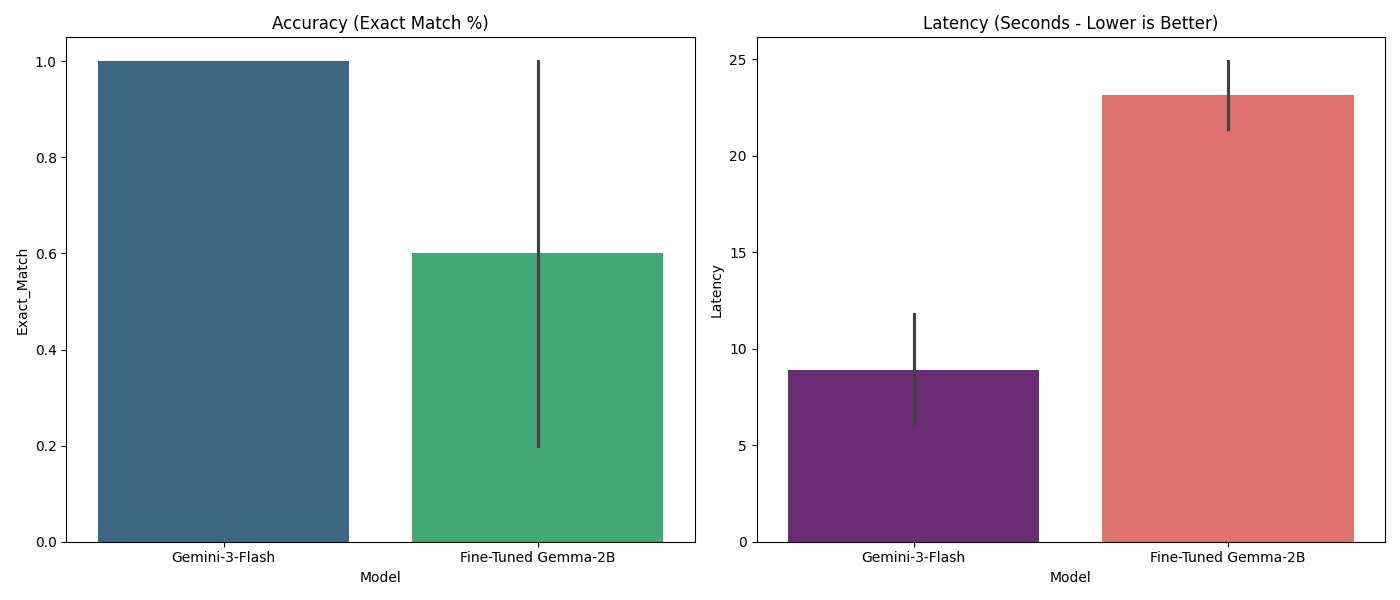
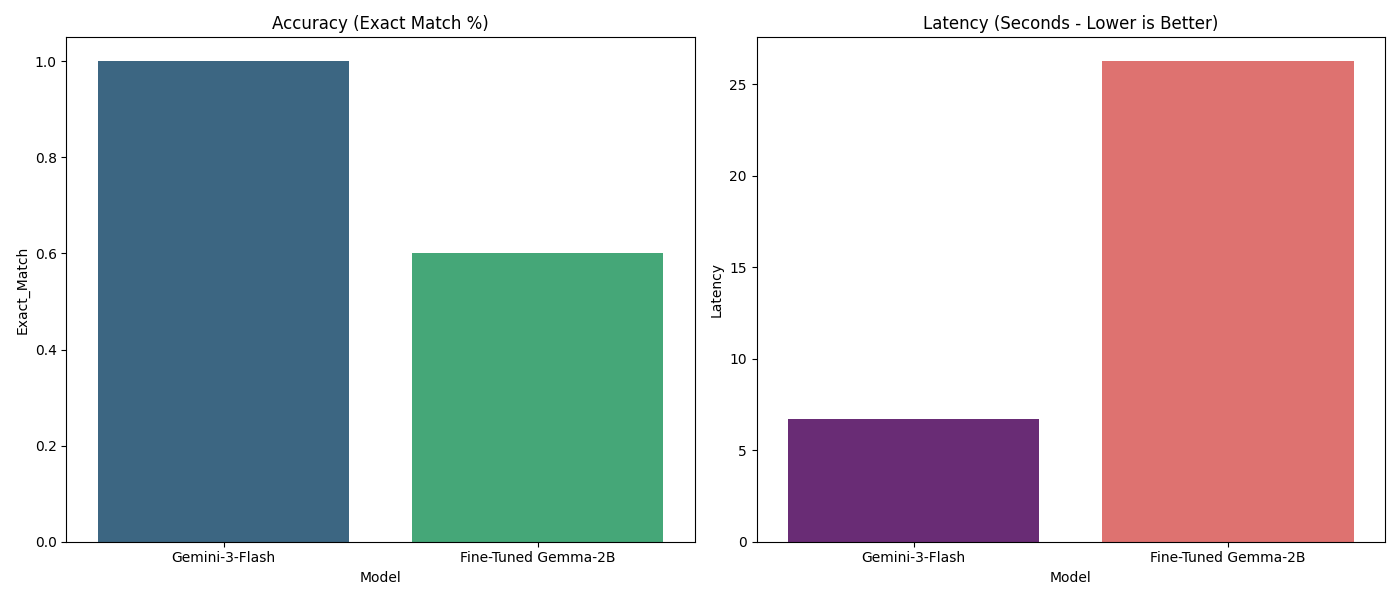
Refactored code

diff --git a/agent_evaluation_comparison_gemini3_vs_gemma2.py b/agent_evaluation_comparison_gemini3_vs_gemma2.py
@@ -189,6 +189,7 @@ async def run_evaluation():
         start = time.time()
         gemini_json = await get_gemini_response(eval_data['input'])
         gemini_lat = time.time() - start
+        logger.info(f"Gemini-3-Flash response: {gemini_json}")
         gem_type, gem_exact = calculate_metrics(gemini_json, eval_data['expected'])
         
         comparison_results.append({"Model": "Gemini-3-Flash", "Latency": gemini_lat, "Type_Match": gem_type, "Exact_Match": gem_exact})
@@ -201,6 +202,7 @@ async def run_evaluation():
                 rule_extraction_model_wrapper.generate, 
                 eval_data['input'])
         gemma_lat = time.time() - start
+        logger.info(f"Fine-tuned Gemma-2B response: {gemma_json}")
         gma_type, gma_exact = calculate_metrics(gemma_json, eval_data['expected'])
         
         comparison_results.append({"Model": "Fine-Tuned Gemma-2B", "Latency": gemma_lat, "Type_Match": gma_type, "Exact_Match": gma_exact})

diff --git a/src/rule_onboarding/agents/rule_extraction.py b/src/rule_onboarding/agents/rule_extraction.py
@@ -10,8 +10,6 @@ logger = setup_logger("DQ_RULE_EXTRACTION_AGENT")
 # The directory where the Instruction for the rule extraction agent configuration file is stored
 PROJECT_ROOT = Path(__file__).parent.parent.parent.parent
 CONFIG_PATH = PROJECT_ROOT / "config" / "rule_extraction_agent_config.yaml"
-#BASE_DIR = os.path.dirname(os.path.dirname(os.path.abspath(__file__)))
-#CONFIG_PATH = os.path.join(BASE_DIR, "config", "rule_extraction_agent_config.yaml")
 
 # Load the external configuration
 with open(CONFIG_PATH, "r") as f:
